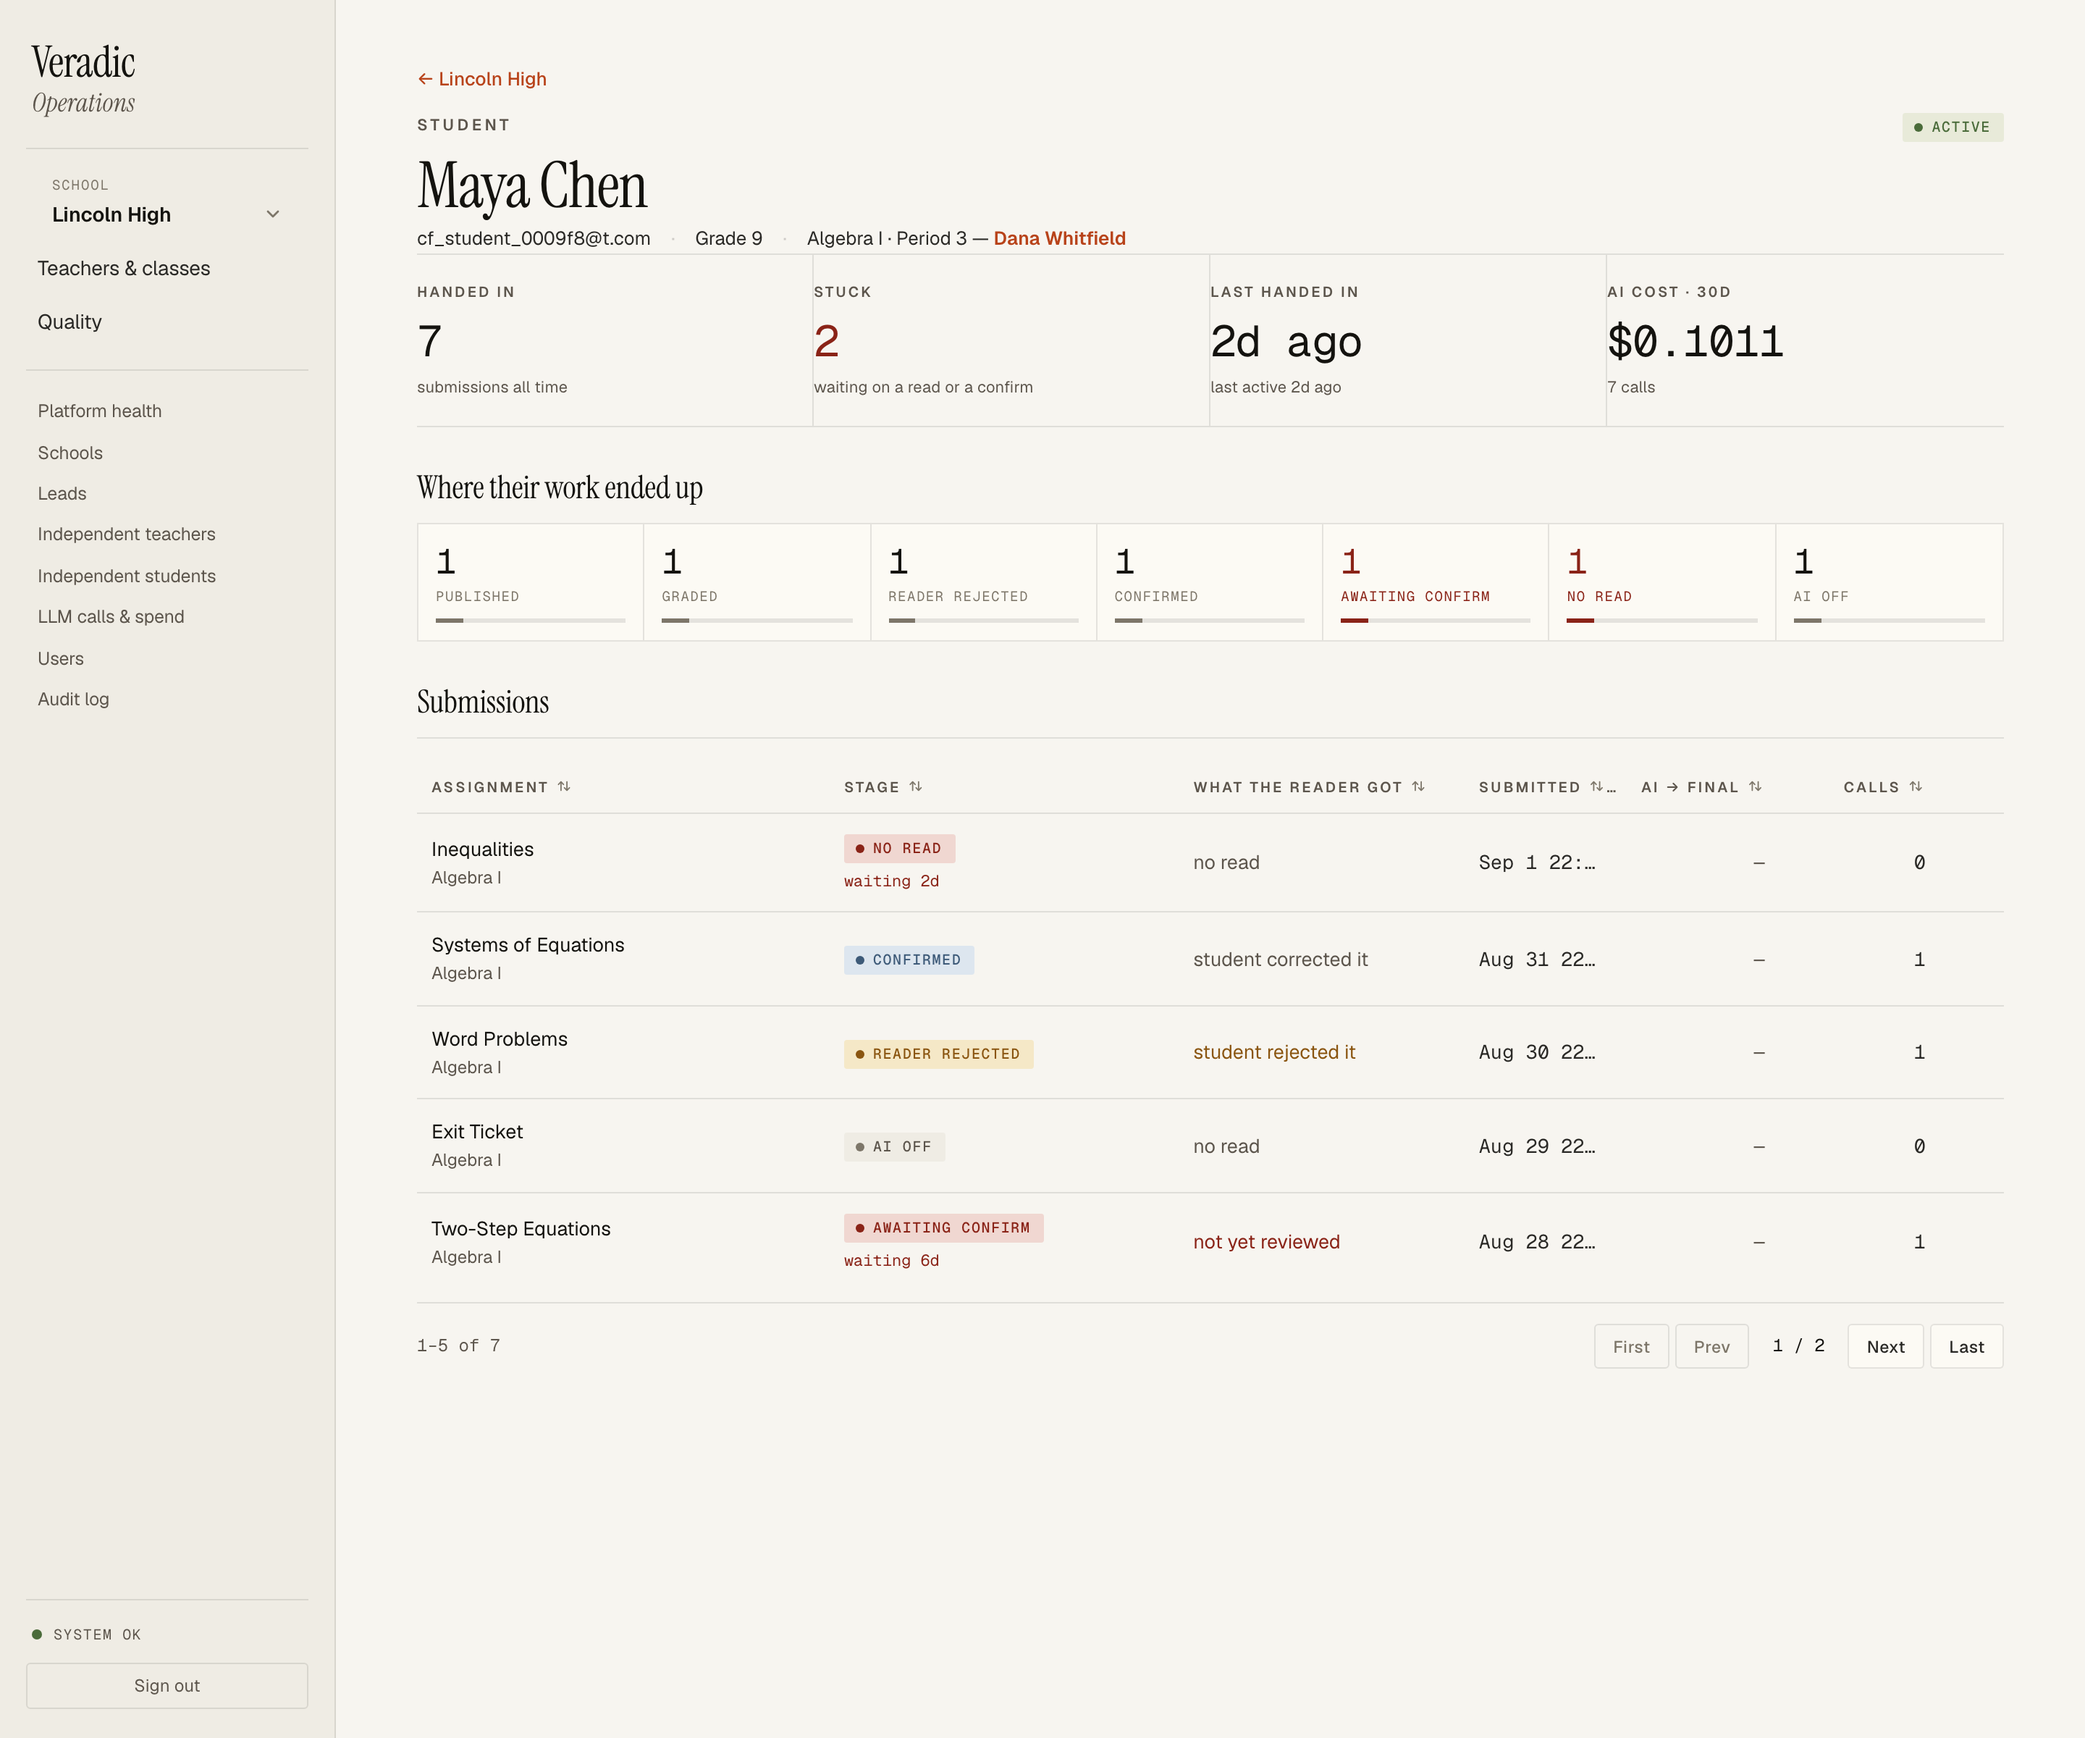
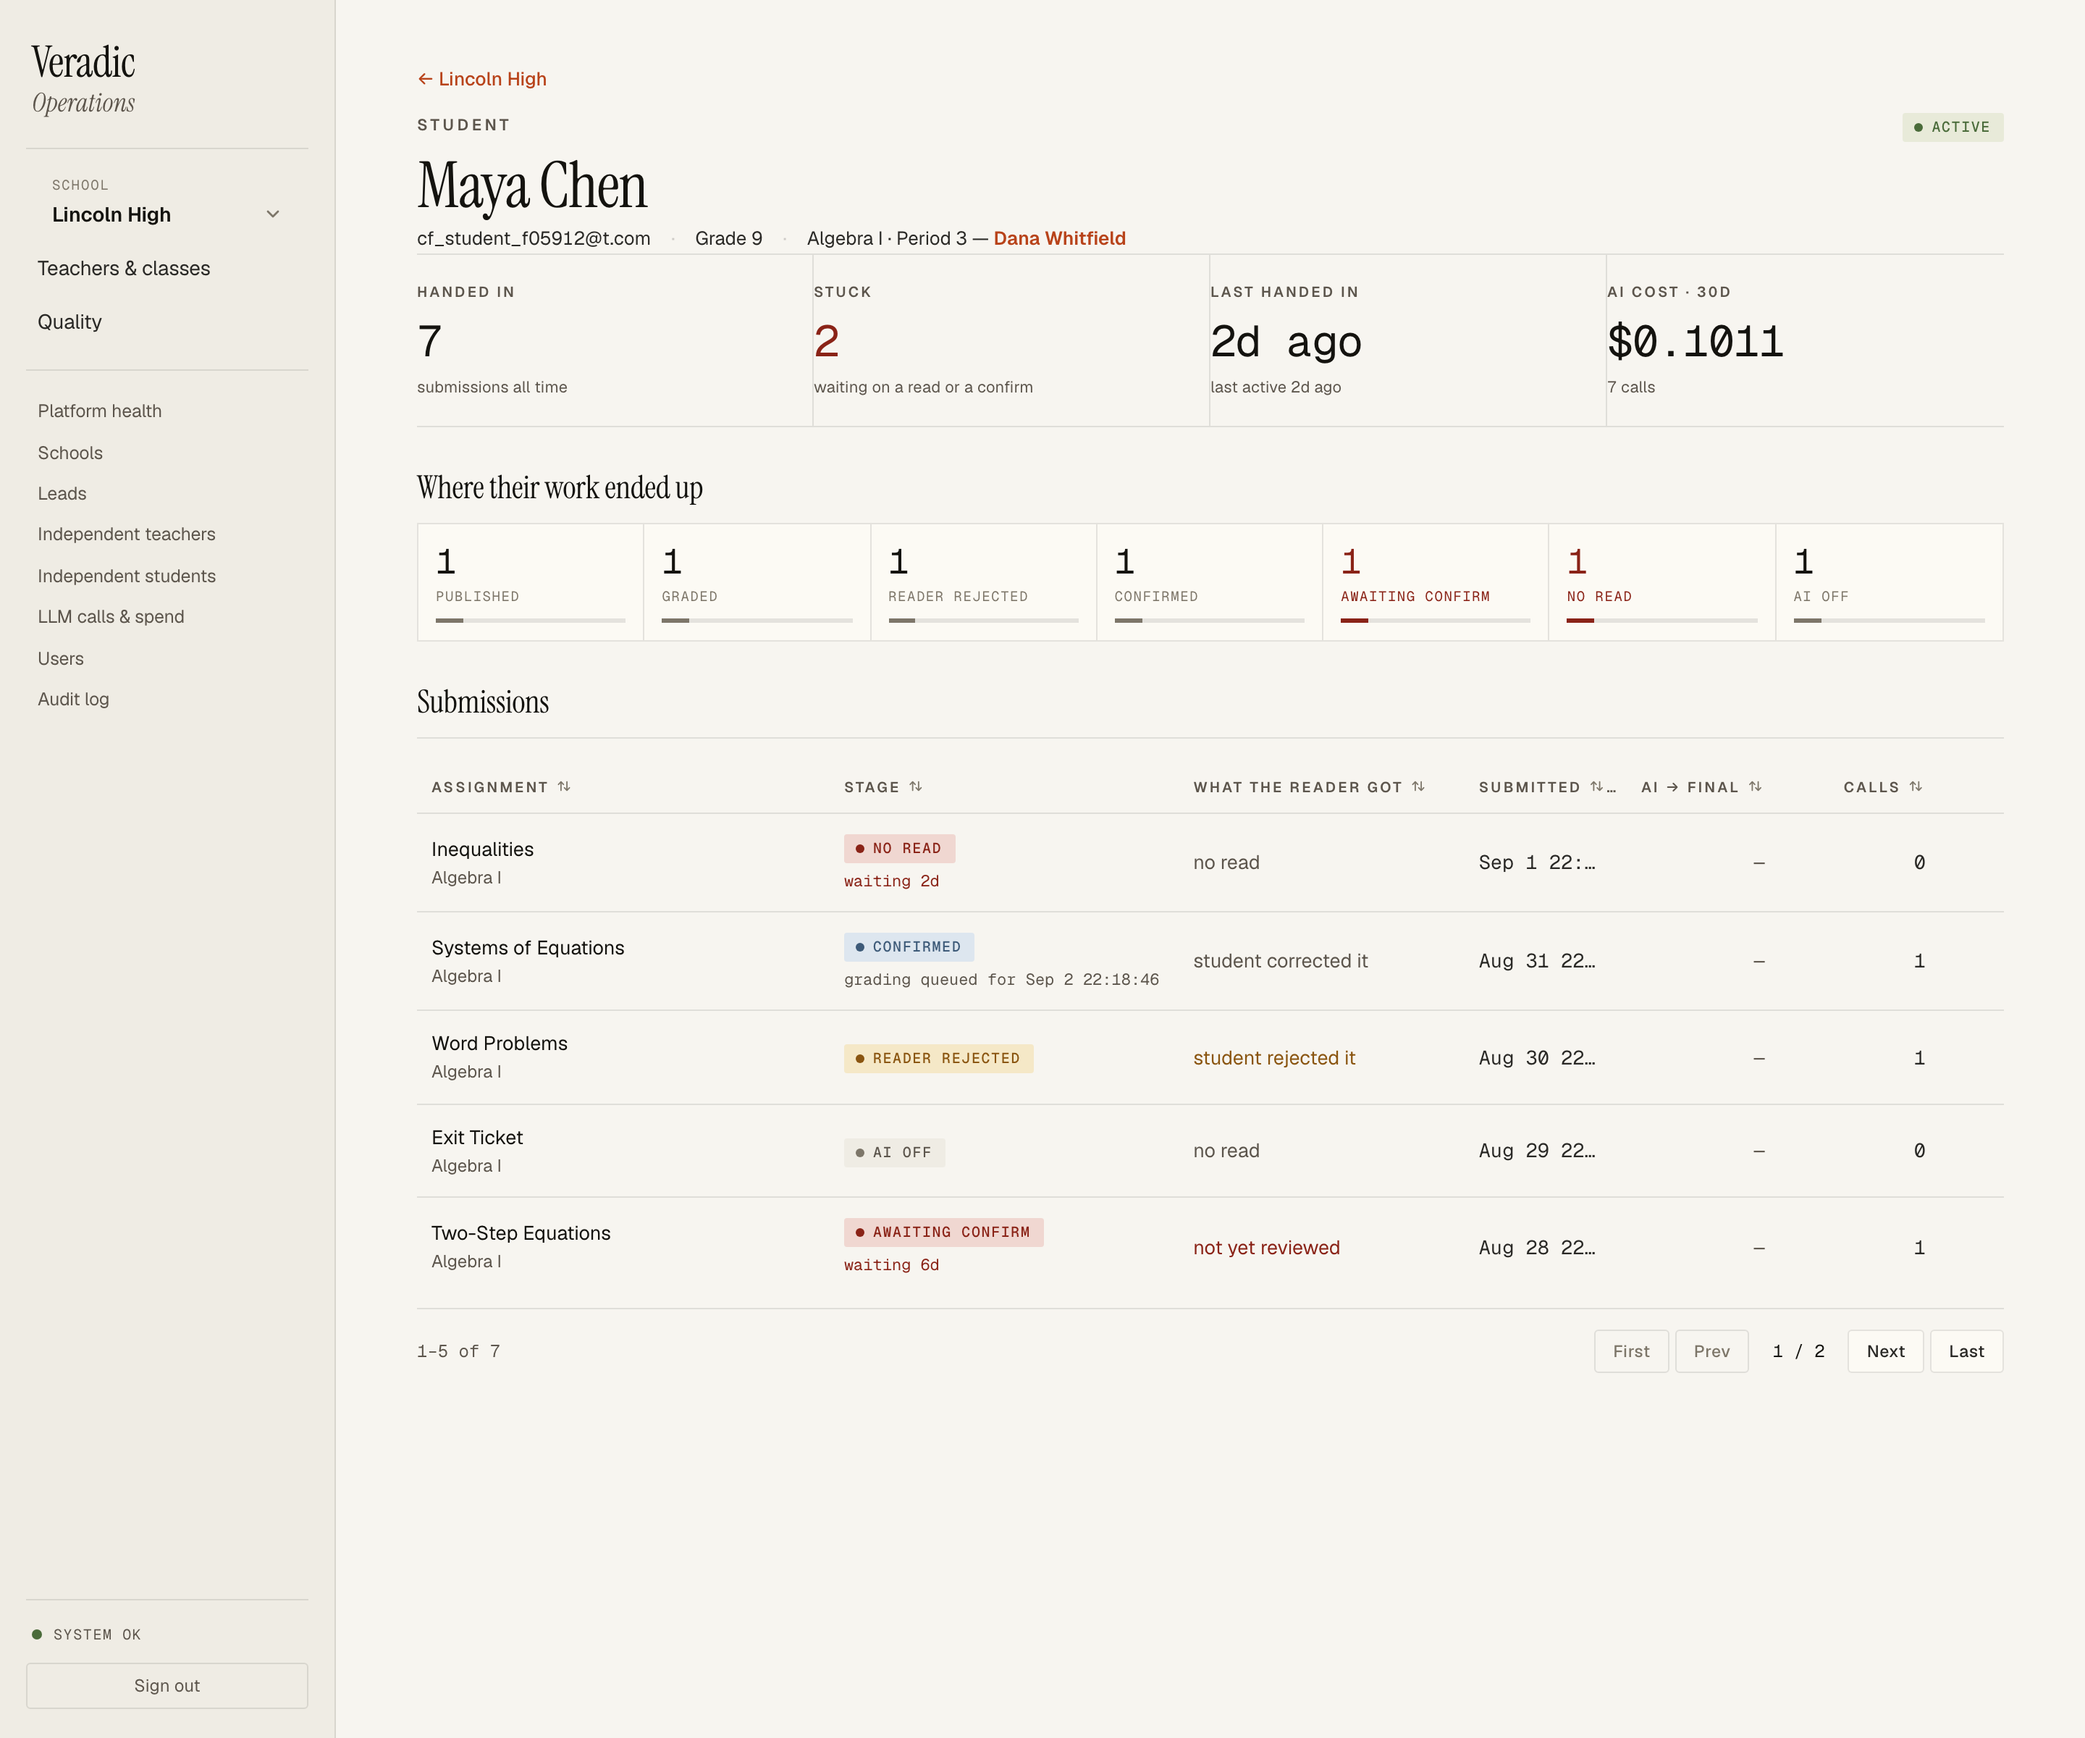
fix: surface the grading queue, and three defects from round 8
`grading_job` was returned by the endpoint, typed in the client, and
rendered by nothing. I added it specifically to answer "why is this
confirmed but ungraded" — and then never asked the question on screen.
It now renders under a CONFIRMED row: "grading queued for <due date>",
"grading waiting on the teacher" when there is no due date, or the
failure and its attempt count in danger tone. That is the difference
between a submission that is owed a grade and one whose grade is never
coming, which was invisible.

Round 8's three findings, all mine:

The funnel's phone-width separator was off by one — I wrote `-n + 5`
last round for a 7-cell grid where rows are (1,2)(3,4)(5,6)(7), so
cells 1-6 need a rule. The separator stopped mid-strip, directly under
the two danger-toned cells the page exists to draw the eye to. This is
the exact bug last round's commit message claimed to have fixed.

`fmtWallTime` still let the rounding carry escape at the TIER
boundaries: 59_999ms printed "60.0s" and 3_599_600ms printed "60m 0s" —
the same "23h 60m" defect, one tier along each time, because the tier
was chosen from the raw value and the rounding applied after. It now
tiers on the rounded value. Sub-second windows, so not user-visible;
fixed because it is the same mistake twice and the third instance would
not be.

And the seeded GradingJob left `scheduled_for` NULL while its
assignment carried a due date. `enqueue_submission` sets it from
[…]

diff --git a/dashboard/src/pages/StudentDetail.tsx b/dashboard/src/pages/StudentDetail.tsx
@@ -138,6 +138,25 @@ export default function StudentDetail() {
       render: (r) => {
         const meta = STAGE_META[r.stage];
         const w = waited(r.stage_since);
+        // A confirmed submission with no grade is the question this
+        // column has to answer, and the durable queue is the answer:
+        // owed-and-scheduled is healthy, `failed` is not. Without this
+        // the row said CONFIRMED and stopped, and the endpoint's
+        // `grading_job` was returned but rendered nowhere.
+        const job = r.grading_job;
+        const jobNote =
+          r.stage !== "confirmed" || !job
+            ? null
+            : job.status === "failed"
+              ? { text: `grading failed after ${job.attempts} tries`, bad: true }
+              : job.status === "queued"
+                ? {
+                  text: job.scheduled_for
+                    ? `grading queued for ${fmtClockTime(job.scheduled_for)}`
+                    : "grading waiting on the teacher",
+                  bad: false,
+                }
+                : { text: `grading ${job.status}`, bad: false };
         return (
           <div>
             <StatusPill tone={meta.tone} label={meta.label} title={meta.blurb} />
@@ -147,6 +166,19 @@ export default function StudentDetail() {
                 style={{ fontSize: 11, color: "var(--danger)", marginTop: 4 }}
               >
                 waiting {w}
+              </div>
+            )}
+            {jobNote && (
+              <div
+                className="mono"
+                style={{
+                  fontSize: 11,
+                  color: jobNote.bad ? "var(--danger)" : "var(--muted)",
+                  marginTop: 4,
+                }}
+                title={job?.last_error ?? undefined}
+              >
+                {jobNote.text}
               </div>
             )}
           </div>

diff --git a/dashboard/src/lib/format.ts b/dashboard/src/lib/format.ts
@@ -41,11 +41,13 @@ export function fmtPercent(n: number, digits = 1): string {
 // and 359_600ms rendered "5m 60s". Round to the smaller unit FIRST,
 // then divide, so the carry lands where it belongs.
 export function fmtWallTime(ms: number): string {
-  if (ms < 60_000) return `${(ms / 1000).toFixed(1)}s`;
-  if (ms < 3_600_000) {
-    const totalS = Math.round(ms / 1000);
-    return `${Math.floor(totalS / 60)}m ${totalS % 60}s`;
-  }
+  // Tier on the ROUNDED value, not the raw one. Choosing the tier first
+  // let the carry escape upward: 59_999ms rounded to "60.0s" and
+  // 3_599_600ms to "60m 0s" — the same defect as "23h 60m", just one
+  // tier further along each time.
+  if (ms < 59_950) return `${(ms / 1000).toFixed(1)}s`;
+  const totalS = Math.round(ms / 1000);
+  if (totalS < 3600) return `${Math.floor(totalS / 60)}m ${totalS % 60}s`;
   const totalM = Math.round(ms / 60_000);
   return `${Math.floor(totalM / 60)}h ${totalM % 60}m`;
 }

diff --git a/dashboard/src/index.css b/dashboard/src/index.css
@@ -3312,7 +3312,12 @@ table.dt tr:last-child td { border-bottom: none; }
   .funnel-strip { grid-template-columns: repeat(2, 1fr); }
   .funnel-cell { border-right: 1px solid var(--rule); }
   .funnel-cell:nth-child(2n) { border-right: none; }
-  .funnel-cell:nth-child(-n + 5) { border-bottom: 1px solid var(--rule); }
+  /* 7 cells at 2-up is (1,2)(3,4)(5,6)(7), so every cell above the last
+     row — 1 through 6 — needs a rule. `-n + 5` stopped under cell 5 and
+     left the separator running across only the left half of the strip,
+     directly beneath the two danger-toned cells this page exists to
+     draw the eye to. */
+  .funnel-cell:nth-child(-n + 6) { border-bottom: 1px solid var(--rule); }
 }
 
 @media (prefers-reduced-motion: reduce) {

diff --git a/scripts/seed_student_case_file.py b/scripts/seed_student_case_file.py
@@ -65,6 +65,11 @@ NOW = datetime.now(UTC)
 READ_AFTER_SUBMIT = timedelta(seconds=11)
 RULED_AFTER_READ = timedelta(minutes=3)
 
+# One due date for every seeded assignment, so the grading jobs'
+# `scheduled_for` can be bound to the same value `enqueue_submission`
+# would have read off the assignment.
+DUE_AT = NOW - timedelta(days=1)
+
 
 def submitted(days_ago: int) -> datetime:
     return NOW - timedelta(days=days_ago)
@@ -190,7 +195,7 @@ async def seed() -> dict[str, str]:
                 course_id=course.id, unit_ids=[], teacher_id=teacher.id,
                 title=title, type="homework", status="published",
                 integrity_check_enabled=ai, ai_grading_enabled=ai,
-                due_at=NOW - timedelta(days=1),
+                due_at=DUE_AT,
             )
             s.add(a)
             await s.flush()
@@ -256,10 +261,27 @@ async def seed() -> dict[str, str]:
                 graded_at=NOW - timedelta(days=7),
             ),
         ])
-        s.add(GradingJob(
-            submission_id=repaired.id, assignment_id=repaired.assignment_id,
-            status="queued", attempts=0,
-        ))
+        # The grading queue, as `enqueue_submission` actually writes it.
+        #
+        # `scheduled_for` is set to the assignment's `due_at`, never left
+        # NULL when the assignment has one — NULL means "no due date,
+        # wait for a teacher" (see the GradingJob docstring), so a NULL
+        # here alongside a due date asserts the opposite of the row it
+        # points at. And confirming an AI-graded submission enqueues a
+        # job unconditionally, so the two that carry an ai_score must
+        # carry a finished job too; a published submission with no
+        # grading job on record is not a state the drain can leave
+        # behind.
+        for target, job_status in (
+            (repaired, "queued"), (done, "done"), (graded, "done"),
+        ):
+            s.add(GradingJob(
+                submission_id=target.id,
+                assignment_id=target.assignment_id,
+                status=job_status,
+                scheduled_for=DUE_AT,
+                attempts=1 if job_status == "done" else 0,
+            ))
 
         # The read that produced each stored extraction.
         #
